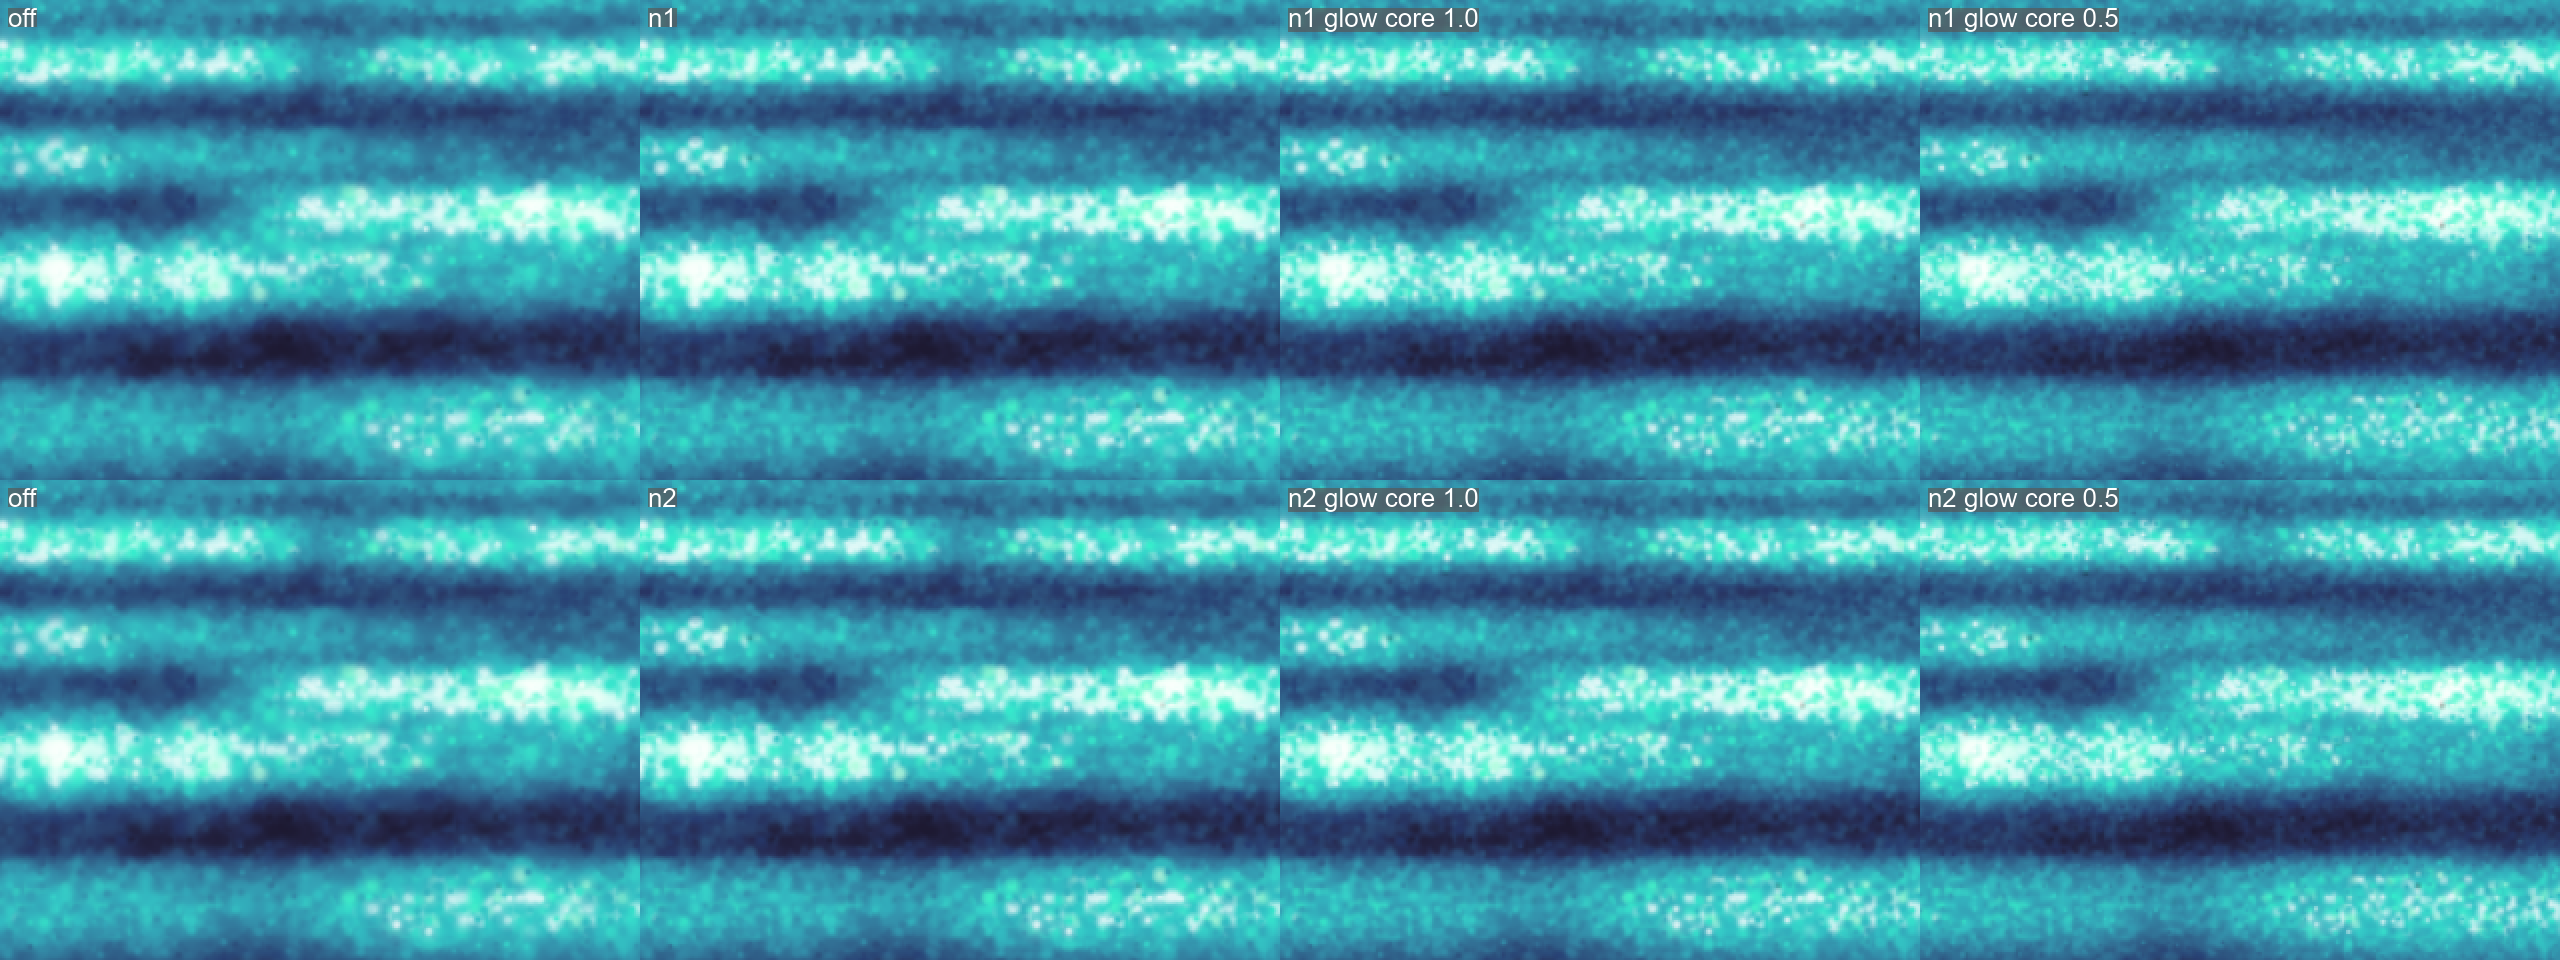
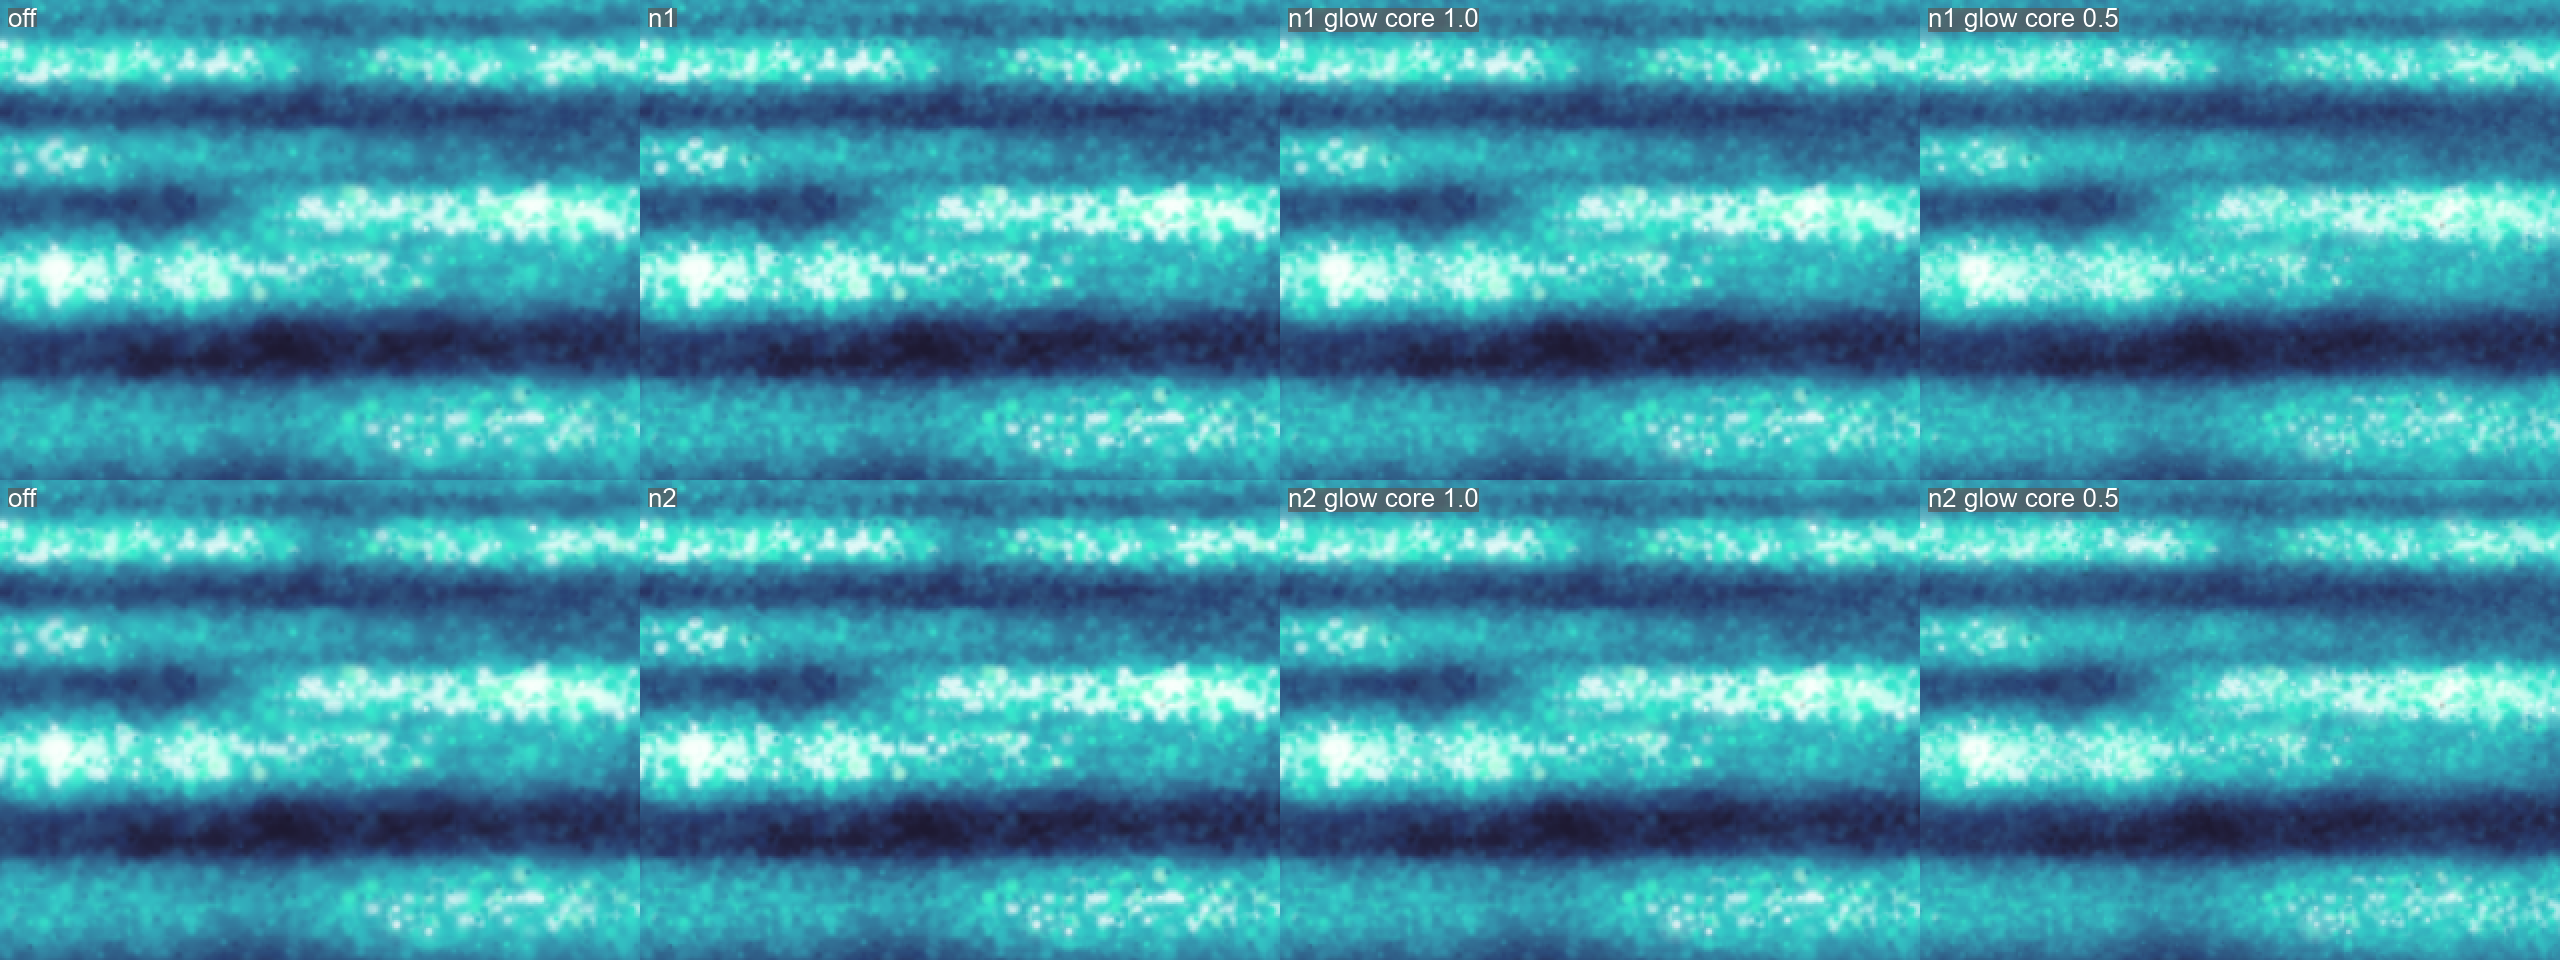
Research: near-2x2 handoff README; re-render stills with the 1.5 glow

diff --git a/docs/evidence/spectrogram-stars/near-2x2-2026-09-30/README.md b/docs/evidence/spectrogram-stars/near-2x2-2026-09-30/README.md
@@ -1,0 +1,167 @@
+# Near-two 2×2 Stars reads: research handoff (PR #1321)
+
+State on 2026-09-30, written so a later session can pick this up cold.
+PR #1321 is a research draft and is **not for merge as-is**:
+the useful result gets ported to production in a separate, clean PR (see "Next steps").
+
+## Why this exists
+
+Stars cost is dominated by per-pixel neighbour gathering (see `docs/spectrogram-star-performance.md` and issue #1142).
+Today the far three depth layers already draw a complete 2×2 response at reduced resolution,
+while the near two draw a native one-read core plus a halo image filled by a 3×3 gather.
+Yan asked to measure 2×2 on the near two layers alone, on top of today's renderer.
+The earlier 2×2 rejection (#1170 round 1, Yan: "I do prefer A") was for ALL five layers with the halo faded at 0.6–0.7 cell,
+so it did not settle this narrower case.
+
+He then asked whether a star could keep its footprint while more of it becomes glow:
+Yan, verbatim: *"I want the option of maintaining the star footprint, but decrease the core so more of it is glow."*
+That is the `HARMONIGRAPH_STARS_NEAR_CORE` knob below.
+
+## The geometry, in one paragraph
+
+Each depth layer is a grid with one star per cell per life.
+A star sits within its cell's jitter box, `0.5 ± 0.3·Position variation` cells from the corner,
+so it can be as close as `0.5 − 0.3·J` cells to its cell's edge.
+A pixel reads a fixed set of cells.
+The radius within which EVERY star is guaranteed to be read, the support, is:
+
+- 2×2 cells, starting at `floor(r − 0.5)`: `1 − 0.3·J` cells (0.85 at the default J 0.5, 0.70 at J 1);
+- 3×3 cells: `1.5 − 0.3·J`, which production fixes at 1.2, the J 1 value.
+
+Glow past the support is either cut by the shader's fade (production) or leaves seams along cell edges.
+Glow reach is measured in cells, and near cells are large (the nearest is ~6.6 star px, a star px being pane height / 540),
+so 0.85 cell is still a wide halo on screen.
+
+## What the branch contains
+
+Branch `worktree-stars-near-2x2`, stacked on the #1320 research plumbing.
+#1320 is closed, and its P1/P1x/P2 prototypes are frozen as tag `archive/stars-research-pr-1320`.
+Those prototypes are still in this tree but are not part of this study.
+
+Research switch `HARMONIGRAPH_STARS_PROTO`, read once per renderer (`StarsProto::from_env` in `crates/harmonigraph-render/src/stars.rs`).
+It reaches the shaders as the pipeline override `STAR_PROTO`, declared in `shaders/stars.wgsl`:
+
+| Value | `STAR_PROTO` | What the near two layers draw |
+|---|---|---|
+| `off` (default) | 0 | Production, byte-identical: the three offline Stars goldens pass unblessed. |
+| `n1` | 4 | Native core unchanged; the halo passes gather 2×2 (`star_near_gather(s, r, true)`) instead of 3×3. Residual = max(full − core, 0), support `1 − 0.3·J`, fading over the last 0.15 cell. The halo targets are the profile's usual sizes. |
+| `n2` | 5 | No near halo passes, targets or samples. Each near layer draws its complete response from a 2×2 read (`star_near_gather(s, r, false)`, the far path's maths) at today's near resolution: native in High's final pass, the 75% near pass under Medium. |
+
+The far three layers, colour memory and profile sizes are production's in both modes.
+
+`HARMONIGRAPH_STARS_NEAR_CORE=<factor>` applies to n1 and n2 only; `off` is unaffected.
+When set to any value, 1.0 included:
+
+- the near core's sigma and cap are multiplied by the factor (CPU side, `proto_scale_near` in `stars.rs`, before defocus);
+- the near fringe stops decaying in sigma units and is tied to the support instead:
+  `fringe · exp(−1.5 · dist / (R · size))`, faded over R's last 0.15 cell (`star_near_texel` in `stars.wgsl`),
+  where `size` is the star's own size draw;
+- the size draw rides in the lowest mantissa byte of the baked centre's x (near slices, glow mode only),
+  which moves the centre by under 3e-5 cell.
+
+**Trap:** the first glow used `exp(−3 · dist / (R · size))`, which is SHORTER than today's fringe.
+Today's fringe is `exp(−0.4 · d)` in sigma units, about 0.3 of a near cell.
+Commit ce6124bc changed it to 1.5, which holds about a fifth of the centre at the support's edge, so the fade ends the glow.
+The constant is hard-coded in `star_near_texel`, not a knob.
+
+Research-only helpers:
+
+- `HARMONIGRAPH_OFFLINE_SPECTRAL_ONLY=1` makes the offline renderer draw the spectral pane alone.
+- Always set `HARMONIGRAPH_SHADER_ASSETS=source`: the Metal corpus was deliberately not regenerated on this branch.
+
+## Measured results
+
+Apple M1 Pro, Metal, source shaders.
+The probe is `cloud_costs_by_style_and_dial` with `PROBE_CASE="stars-near,blur only"`, 240 frames.
+All cases interleave in one process, with two runs per size.
+"Stars" is the total minus `blur only`; compare within a run, because the absolute baseline drifts between sessions.
+Raw logs are in `timing/`.
+
+| | 1080p@2 stars | 4K@4 stars |
+|---|---:|---:|
+| Production Medium (fresh default) | 2.08 ms | 5.55 ms |
+| n1 Medium | 1.92 (−8%) | 4.58 (−17%) |
+| n2 Medium | 1.72 (−17%) | 4.03 (−27%) |
+| Production High | 3.77 | 10.93 |
+| n1 High | 2.92 (−23%) | 9.32 (−15%) |
+| n2 High | 3.23 (−14%) | 9.85 (−10%) |
+
+At Yan's live pane size (roughly the 1080p case), n2 saves about 0.36 ms of the whole spectrogram frame; at 4K, about 1.5 ms.
+Under Medium, n2 is the faster and the simpler of the two, since it deletes the near halo passes.
+Under High, n1 is faster.
+
+## Look
+
+- **Plain n1 and n2 are nearly indistinguishable from production:** a mean per-channel difference of 1.7/255, 99th percentile 13/255.
+  Today's near fringe has mostly died out by 0.85 cell, so the 2×2 support barely cuts anything at default dials.
+- **The glow knob changes the near stars modestly.** At core 1.0 their edges are a little softer. At core 0.5 the near stars become crisper points inside a soft glow.
+- Mean brightness is unchanged across modes.
+- **Yan's verdict on the glow variants is PENDING.** He has the videos but has not chosen.
+
+Evidence in this directory:
+
+- `long-take-medium-{off,n1,n2,n1-glow,n2-glow,n1-core05,n2-core05}.png`:
+  Medium, take `take-2026-09-22_15-35-06.take`, last frame of a 28–40 s render.
+  "glow" means core 1.0.
+  All were re-rendered after ce6124bc, so every glow still uses the 1.5 falloff.
+- `crops-2x.png` and `crops-2x-tight.png`:
+  2× nearest-neighbour crops, top row off | n1 | n1 glow 1.0 | n1 glow 0.5, bottom row the same for n2.
+- Videos were rendered to `/tmp/near2x2/` and are not committed (tens of MB).
+  Re-create them with `timing/all.sh`, which runs the timing and then the videos:
+  off | n2 | n2 glow 1.0 | n2 glow 0.5, plus a 2×2 comparison of 1:1 crops.
+
+## How to reproduce
+
+From the worktree, with `sccache` on PATH:
+
+```sh
+cargo build --release -p harmonigraph-offline
+```
+
+```sh
+sh docs/evidence/spectrogram-stars/near-2x2-2026-09-30/timing.sh
+```
+
+```sh
+sh docs/evidence/spectrogram-stars/near-2x2-2026-09-30/render.sh
+```
+
+```sh
+sh docs/evidence/spectrogram-stars/near-2x2-2026-09-30/montage.sh 1000 800 /tmp/near2x2/crops-2x.png
+```
+
+`render.sh` writes to `/tmp/near2x2/`; `montage.sh` expects the `*-00011.png` frames there, and `off` needs one extra render (see `restills.sh`).
+Timing needs a quiet GPU: no concurrent builds, captures or video encoding.
+
+**Offline trap:** the renderer has no pre-roll, and the spectrogram history takes about 12 s of song to fill the pane.
+Render from 12 s before the window you want, then trim with `ffmpeg -ss 12`;
+a single-frame render comes out black.
+
+## Next steps
+
+Pick up from whichever of these Yan chooses.
+
+1. **Port n2 to production, if the look is accepted.**
+   Do this in a fresh branch off main, not on this research branch:
+   - make the near two layers draw the complete 2×2 response;
+   - delete the near halo passes, targets and the `star_halo_*` machinery they alone use;
+   - the far three stay as they are.
+
+   Check what this does to the Stars rendering profiles (Uniform / High / Medium / Low), since their near-halo resolutions become meaningless.
+   Each profile's saved enum variant is persisted: read the `persistence-contract` skill before dropping any.
+   The change owes a regenerated Metal corpus in the same commit (the `metal-corpus` skill) and re-blessed Stars goldens on Yan's command,
+   and it must be timed against then-current main.
+   The support now depends on Position variation (`1 − 0.3·J`) for the near layers too; production's near halo used a fixed 1.2.
+2. **Iterate on the glow shape if Yan wants the core-size idea as a dial.**
+   Likely dials are a core size (the knob's factor) and a glow length (the 1.5 constant).
+   New persisted fields need the `persistence-contract` skill; the fresh default should reproduce whichever still or video he picks.
+   Iterate on the look with the `look-prototype` skill's contact sheets or offline renders before a build.
+3. **Close #1321 if neither is wanted.**
+   Record the measurements on #1142, then freeze the branch as `archive/stars-research-pr-1321` (annotated tag), as was done for #1320.
+
+## Related history
+
+- #1142: Stars performance research, and the comment of 2026-09-30 on #1320.
+- #1242: why three look choices force the gather.
+- `docs/spectrogram-star-performance.md`: the decision index of everything tried.
+- Tag `archive/stars-research-pr-1320`: the cores + bloom and pre-drawn-tile prototypes. Neither was adopted, and group twinkle was vetoed.
